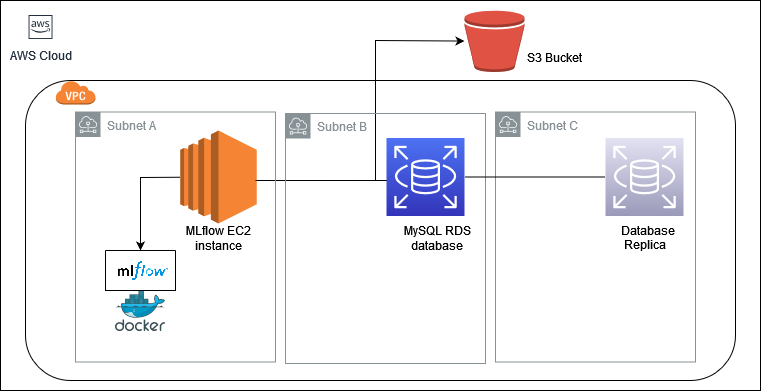
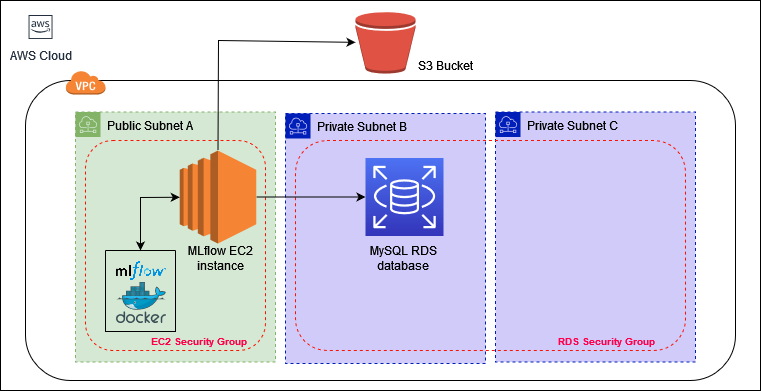
Updated diagram and terraform output

diff --git a/README.md b/README.md
@@ -3,7 +3,7 @@
 This is a proof-of-concept deployment to deploy an MLflow server in AWS using EC2, RDS, and S3.
 
 The project uses Docker to containerize the MLflow application and run it on an EC2 instance.
-The Docker image being used is defined in the provided Dockerfile and is uploaded to Dockerhub under `jamesty2114/mlflow`.
+The Docker image being used is defined in the provided Dockerfile and is uploaded to Dockerhub under `jamesty2114/mlflow`.  The container opens port 5000 to port 80 of the instance to allow communication from the MLflow application to the public internet.
 
 The MLflow server uses a MySQL RDS database with two Availability Zones (minimum required) which will store all the metrics, parameters, notes, etc.,
 and the S3 bucket to store images, models, etc.
